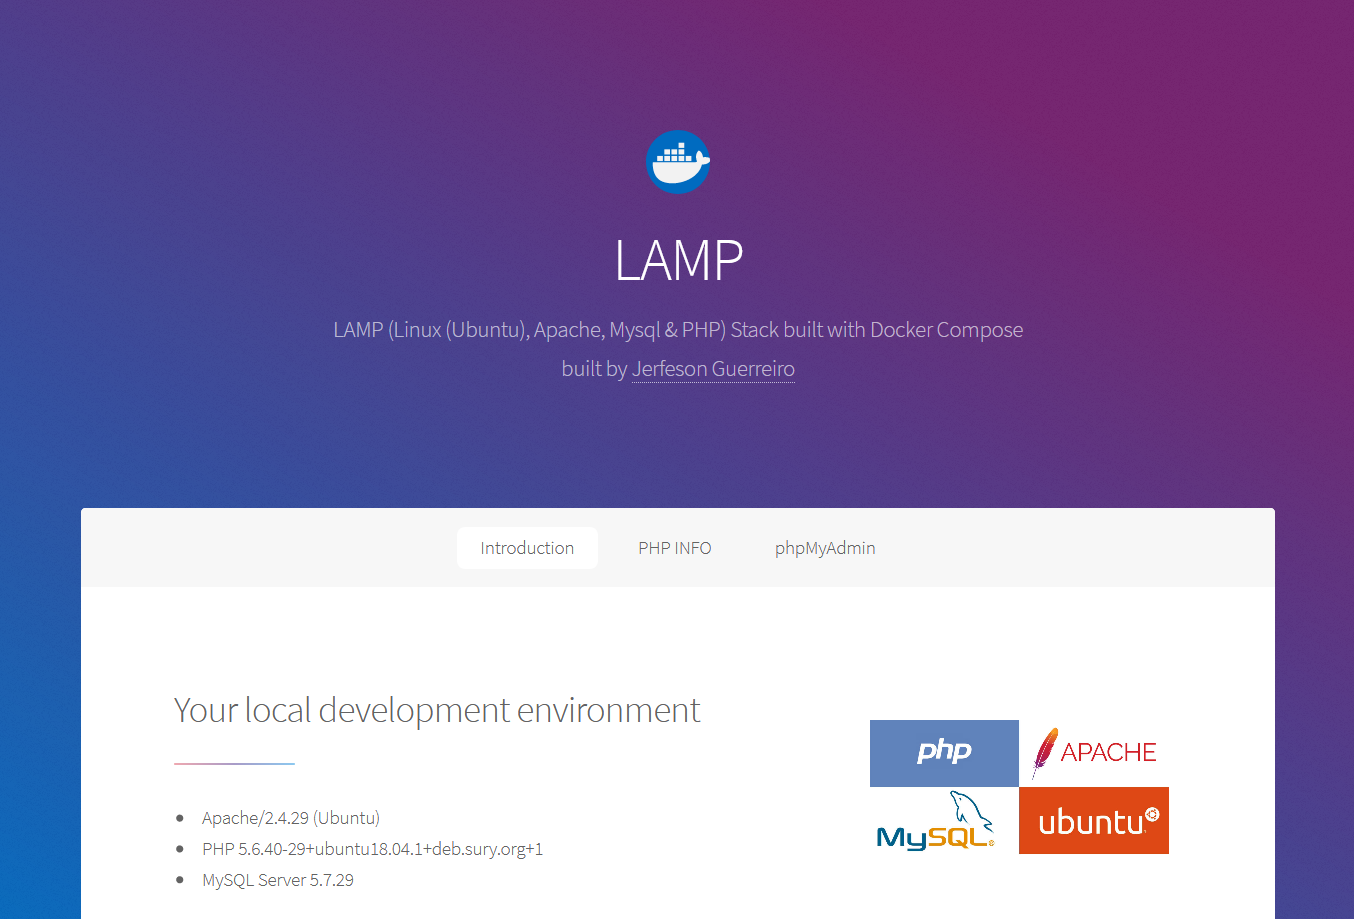
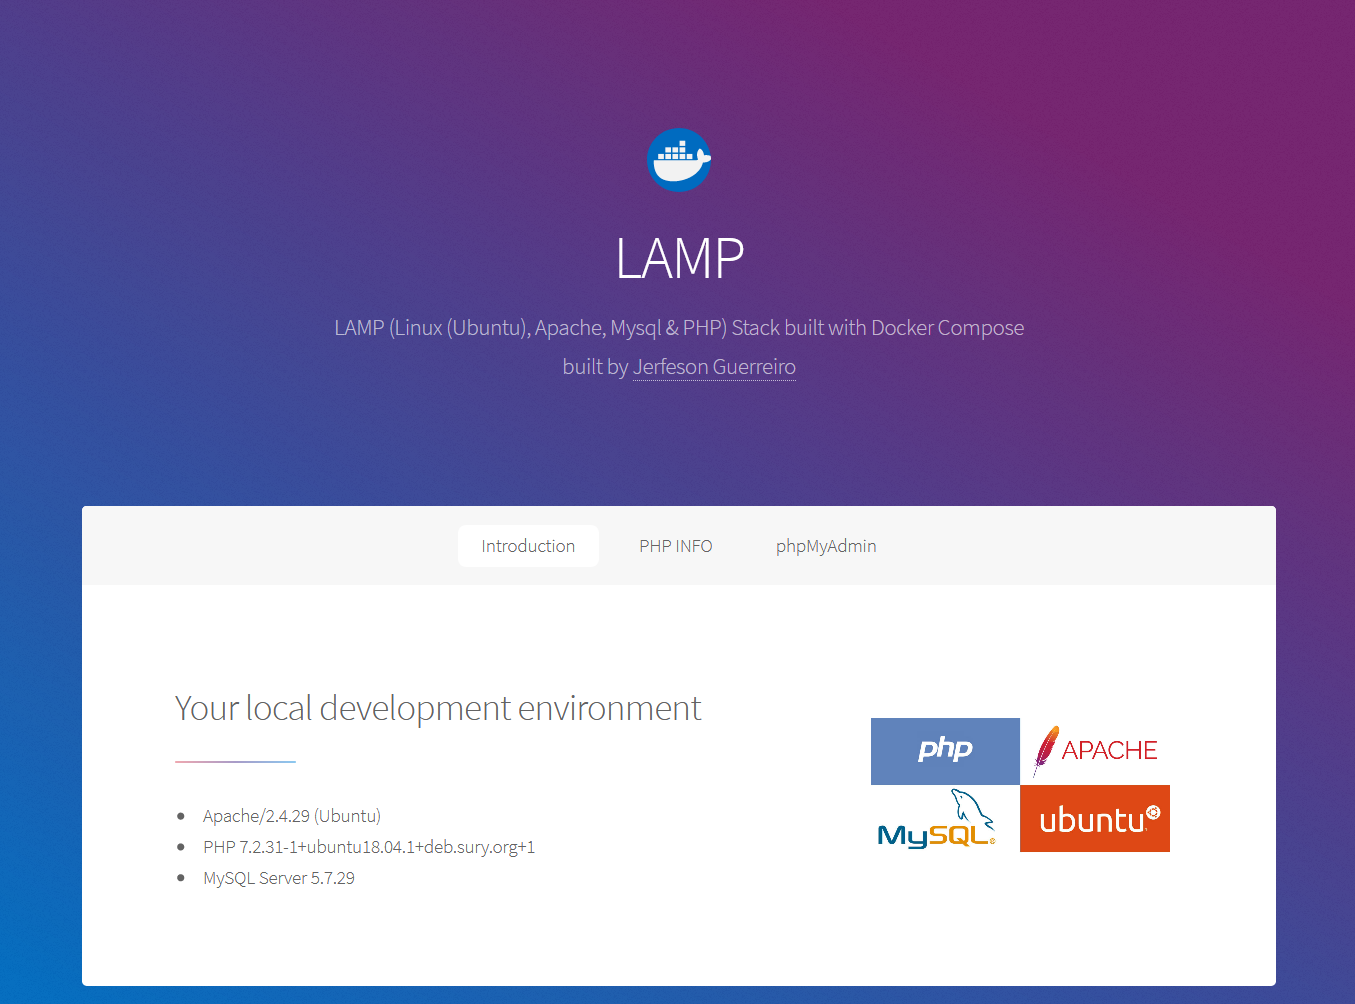
:tada: first commit

diff --git a/README.md b/README.md
@@ -4,7 +4,7 @@
 
 This is a basic #LAMP stack environment built using Docker Compose. It consists following:
 
-- PHP 5.6.X
+- PHP 7.2.X
 - Apache 
 - MySQL 5.7
 - phpMyAdmin
@@ -18,11 +18,11 @@ Clone this repository on your local computer. Run the `docker-compose up -d`.
 git clone https://github.com/jerfeson/docker-compose-lamp.git
 cd docker-compose-lamp/
 git fetch --all
-git checkout 5.6.x
+git checkout 7.2.x
 cp sample.env .env
 docker-compose up -d
 ```
-> Please make sure that you are using `5.6.x` branch.
+> Please make sure that you are using `7.2.x` branch.
 
 Your #LAMP stack is now ready!! You can access it via `http://localhost`.
 
@@ -75,7 +75,7 @@ docker-compose exec webserver bash
 ```
 ## PHP
 
-The installed version of PHP is 5.6.x
+The installed version of PHP is 7.2.x
 
 By default following extensions are installed.
 
